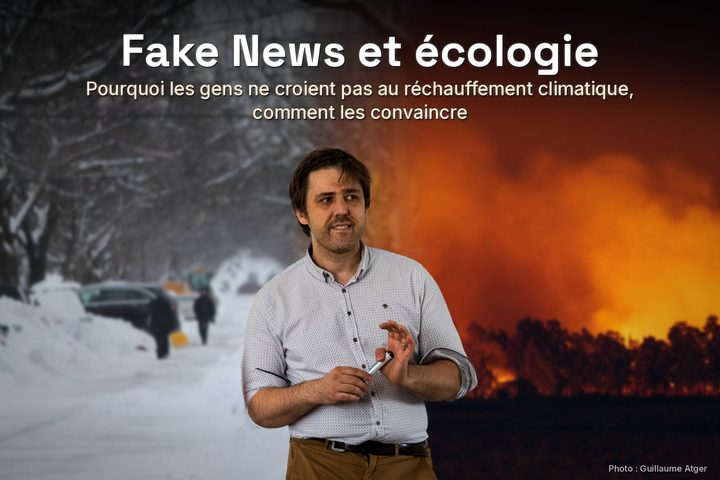
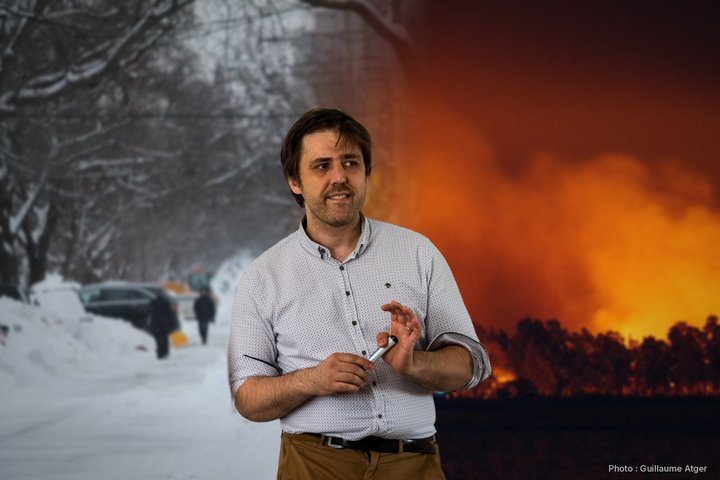
Mise a jour du site

Changed region(s): [[0.0, 0.0, 0.8861, 1.0], [0.4278, 0.9688, 0.4583, 1.0]]

diff --git a/gabarits/accueil.html b/gabarits/accueil.html
@@ -139,23 +139,39 @@
   <div class="wrap">
     <div class="eyebrow" data-rv>Ils m'ont fait venir</div>
     <h2 class="mots" data-mots>Retours des enseignants et des élèves.</h2>
+    {# Sélection : 2 médiathèques, 2 enseignants, 2 élèves (champ « categorie » des témoignages :
+       mediatheque, sinon enseignant). Tirage au hasard à chaque visite parmi tout ce qu'on a ;
+       sans JavaScript, les 2 premiers de chaque groupe. #}
     {% set eleves = (retours or [])|selectattr('type', 'equalto', 'eleve')|list %}
-    <div class="pile">
-      {% for t in refs.temoignages %}
-      <figure class="temoin" style="--k:{{ loop.index0 }}">
-        <span class="tag temoin__qui">Enseignant·e</span>
+    {% set media = refs.temoignages|selectattr('categorie', 'equalto', 'mediatheque')|list %}
+    {% set profs = refs.temoignages|rejectattr('categorie', 'equalto', 'mediatheque')|list %}
+    <div class="pile" data-pile>
+      {% for groupe, liste in [('mediatheque', media), ('prof', profs)] %}{% for t in liste %}
+      <figure class="temoin" data-cat="{{ groupe }}"{% if loop.index0 >= 2 %} hidden{% endif %}>
+        <span class="tag temoin__qui">{{ t.tag or ('Médiathèque' if groupe == 'mediatheque' else 'Enseignant·e') }}</span>
         <blockquote>{{ t.texte }}</blockquote>
         <figcaption><b>{{ t.auteur }}</b>, {{ t.fonction }}{% if t.mode %} · {{ t.mode|lower }}{% endif %}</figcaption>
       </figure>
-      {% endfor %}
-      {% for r in eleves[:3] %}
-      <figure class="temoin temoin--eleve" style="--k:{{ refs.temoignages|length + loop.index0 }}">
+      {% endfor %}{% endfor %}
+      {% for r in eleves %}
+      <figure class="temoin temoin--eleve" data-cat="eleve"{% if loop.index0 >= 2 %} hidden{% endif %}>
         <span class="tag tag--accent temoin__qui">Élève</span>{% if r.note is not none %}<span class="temoin__note">{{ r.note }}<small>/20</small></span>{% endif %}
         <blockquote>{{ r.texte }}</blockquote>
         <figcaption><b>{{ r.qui }}</b>, {{ r.etablissement }}{% if r.mode %} · {{ r.mode|lower }}{% endif %}</figcaption>
       </figure>
       {% endfor %}
     </div>
+    <script>
+    (function () {
+      var pile = document.querySelector('[data-pile]'); if (!pile) return;
+      ['mediatheque', 'prof', 'eleve'].forEach(function (cat) {
+        var c = Array.prototype.slice.call(pile.querySelectorAll('[data-cat="' + cat + '"]'));
+        for (var i = c.length - 1; i > 0; i--) { var j = Math.floor(Math.random() * (i + 1)), x = c[i]; c[i] = c[j]; c[j] = x; }
+        c.forEach(function (f, i) { if (i < 2) { f.hidden = false; pile.appendChild(f); } else f.remove(); });
+      });
+      Array.prototype.forEach.call(pile.children, function (f, k) { f.style.setProperty('--k', k); });
+    })();
+    </script>
 
     {% if retours %}
     <div class="retours" data-rv>
@@ -178,6 +194,23 @@
     {% endif %}
   </div>
 </section>
+
+<!-- 7 bis. Galerie : en descendant, les photos défilent de droite à gauche -->
+{% if galerie_accueil %}
+<section class="galerie-accueil" data-defile>
+  <div class="galerie-accueil__colle">
+    <div class="wrap galerie-accueil__tete">
+      <div><div class="eyebrow" data-rv>En intervention</div><h2>Classes, médiathèques, conférences.</h2></div>
+      <a class="galerie-accueil__tout" href="/interventions/#en-intervention">Toute la galerie →</a>
+    </div>
+    <div class="galerie-accueil__piste" data-piste>
+      {% for p in galerie_accueil %}
+      <figure><img src="/images/galerie/{{ p.fichier }}-vignette.jpg" alt="{{ p.legende }}" width="720" height="540" loading="lazy"><figcaption>{{ p.legende }}{% if p.credit %}<span> · Photo : {{ p.credit }}</span>{% endif %}</figcaption></figure>
+      {% endfor %}
+    </div>
+  </div>
+</section>
+{% endif %}
 
 <!-- 8. Comment ça se passe -->
 <section class="deroule pilier-intervenant fond-teinte">

diff --git a/static/css/accueil.css b/static/css/accueil.css
@@ -134,7 +134,7 @@ html:not(.anim) .accueil .etape { opacity: 1; min-height: 0; padding: 40px 0; }
 .accueil .temoins { padding: 40px 0 120px; }
 .accueil .pile { margin-top: 40px; }
 .accueil .temoin { position: sticky; top: calc(100px + var(--k) * 22px); background: var(--surface); border: 1px solid var(--border); border-radius: 10px; padding: clamp(28px, 5vw, 56px); margin: 0 0 40vh; box-shadow: 0 30px 60px -40px rgba(20,34,44,.5); transform-origin: 50% 0; }
-.accueil .temoin:last-child { margin-bottom: 0; }
+.accueil .temoin:last-child { margin-bottom: 0; } .accueil .temoin[hidden] { display: none; }
 html:not(.anim) .accueil .temoin { position: static; margin-bottom: 24px; }
 .accueil .temoin blockquote { margin: 0 0 22px; padding: 0; border: 0; font-family: var(--serif); font-size: clamp(1.3rem, 2.4vw, 1.9rem); line-height: 1.3; font-style: italic; color: var(--ink); }
 .accueil .temoin blockquote::before { content: "“"; display: block; font-size: 4.5rem; line-height: .6; color: var(--accent); font-style: normal; margin-bottom: 10px; }
@@ -333,3 +333,19 @@ html:not(.anim) .accueil .retours__fenetre { overflow-x: auto; }
 .accueil .facette { border-top: 4px solid var(--accent); }
 .accueil .facette__visuel--couv { background: var(--nuit); }
 .accueil .deroule.fond-teinte, .accueil .interventions-accueil.fond-teinte { border-color: transparent; }
+
+/* Galerie de l'accueil : section collante, la piste glisse vers la gauche pendant qu'on descend (accueil.js) */
+.accueil .galerie-accueil { position: relative; padding: 40px 0; }
+.accueil .galerie-accueil__tete { display: flex; align-items: flex-end; justify-content: space-between; gap: 20px; flex-wrap: wrap; margin-bottom: 28px; }
+.accueil .galerie-accueil__tete h2 { margin: 0; }
+.accueil .galerie-accueil__tout { font-weight: 600; white-space: nowrap; }
+.accueil .galerie-accueil__piste { display: flex; gap: 22px; padding: 0 max(20px, calc((100vw - var(--largeur)) / 2)); overflow-x: auto; scroll-snap-type: x mandatory; scrollbar-width: none; }
+.accueil .galerie-accueil__piste::-webkit-scrollbar { display: none; }
+.accueil .galerie-accueil figure { flex: 0 0 clamp(260px, 36vw, 540px); margin: 0; scroll-snap-align: start; }
+.accueil .galerie-accueil img { display: block; width: 100%; aspect-ratio: 4 / 3; object-fit: cover; border-radius: 10px; }
+.accueil .galerie-accueil figcaption { margin-top: 10px; font-size: .92rem; color: var(--ink-soft); }
+.accueil .galerie-accueil figcaption span { color: var(--ink-mute); }
+html.anim .accueil .galerie-accueil { padding: 0; }
+html.anim .accueil .galerie-accueil__colle { position: sticky; top: 0; height: 100vh; overflow: hidden; display: flex; flex-direction: column; justify-content: center; }
+html.anim .accueil .galerie-accueil__piste { overflow: visible; scroll-snap-type: none; will-change: transform; }
+@media (max-width: 760px) { .accueil .galerie-accueil figure { flex-basis: 78vw; } }

diff --git a/static/js/accueil.js b/static/js/accueil.js
@@ -79,6 +79,14 @@
   var photoOuv = $('[data-parallax]'), manif = $('[data-manifeste]');
   var frise = $('[data-frise]'), trait = $('.frise__trait'), cartes = $$('.temoin'), attente = false;
   var lignes = $$('[data-ligne]');
+  // Galerie : la section est aussi haute que le chemin à parcourir par la piste
+  var defile = $('[data-defile]'), piste = $('[data-piste]'), course = 0;
+  function mesure() {
+    if (!defile || !piste) return;
+    course = Math.max(0, piste.scrollWidth - window.innerWidth);
+    defile.style.height = (window.innerHeight + course * 0.6) + 'px';   // la piste va plus vite que la page
+  }
+  mesure(); window.addEventListener('load', mesure);
   function rendu() {
     attente = false;
     var y = window.scrollY, h = window.innerHeight;
@@ -101,6 +109,10 @@
       l.style.setProperty('--p', pl);
       $$('li', l).forEach(function (li) { li.classList.toggle('on', li.offsetTop + 10 <= pl * rl.height); });
     });
+    if (defile && piste) {
+      var rd = defile.getBoundingClientRect(), pd = borne(-rd.top / Math.max(1, rd.height - h));
+      piste.style.transform = 'translateX(' + (-pd * course) + 'px)';
+    }
     cartes.forEach(function (c, i) {
       var suivante = cartes[i + 1]; if (!suivante) return;
       var d = suivante.getBoundingClientRect().top - c.getBoundingClientRect().top;
@@ -111,6 +123,6 @@
   }
   function demande() { if (!attente) { attente = true; requestAnimationFrame(rendu); } }
   window.addEventListener('scroll', demande, { passive: true });
-  window.addEventListener('resize', demande);
+  window.addEventListener('resize', function () { mesure(); demande(); });
   rendu();
 })();

diff --git a/construire_site.py b/construire_site.py
@@ -456,6 +456,7 @@ def construire(verifier=False):
     env.globals["pages"] = pages
     env.globals["refs"] = refs
     env.globals["retours"] = retours
+    env.globals["galerie_accueil"] = charger_galerie()[:6]   # accueil : bande qui défile au scroll
     # vrai si le fichier existe dans le site (ex. image pas encore rapatriée → on ne l'affiche pas)
     env.tests["existe"] = lambda chemin: bool(chemin) and ((ICI / chemin.lstrip("/")).exists() or (ICI / "static" / chemin.lstrip("/")).exists())
     env.globals["existe"] = lambda chemin: bool(chemin) and ((ICI / chemin.lstrip("/")).exists() or (ICI / "static" / chemin.lstrip("/")).exists())

diff --git a/contenu/interventions/desinformation-au-dela-des-fake-news.md b/contenu/interventions/desinformation-au-dela-des-fake-news.md
@@ -11,7 +11,7 @@ video: HLEhkhCJCyw
 programmes: [EMI, EMC, SNT, HGGSP]
 description: "Et si l'on pouvait vous tromper sans jamais vous mentir ? Astroturfing, fabrique du doute, mute news : la suite de « Fake news et esprit critique », pour le lycée et le supérieur."
 visuel: /images/interventions/desinformation-au-dela-des-fake-news.jpg
-visuel_alt: "Antonin Atger sur la scène du TEDx, devant un globe numérique et une rangée de personnes rivées à leur téléphone ; titre : Désinformation, au-delà des fake news"
+visuel_alt: "Antonin Atger sur la scène du TEDx, devant un globe numérique et une rangée de personnes rivées à leur téléphone"
 ---
 
 Et si l'on pouvait vous tromper sans jamais vous mentir ? Les fake news ne sont que la partie visible de la désinformation. On peut manipuler l'information sans énoncer une seule contre-vérité : en cadrant, en hiérarchisant, en sortant des faits parfaitement exacts de leur contexte. Suite naturelle de « Fake news et esprit critique », cette conférence décortique les techniques les plus utilisées et les biais qui les rendent redoutablement efficaces. Elle existe aussi en version « + IA ».

diff --git a/contenu/interventions/fake-news-environnement.md b/contenu/interventions/fake-news-environnement.md
@@ -11,7 +11,7 @@ pdf: /images/uploads/2026/10/programme-fake-news-et-ecologie.pdf
 programmes: [Plan climat, Agents territoriaux, Formation des élus, Fête de la science, Semaine du développement durable, Éducation aux médias, Lycée agricole]
 description: "Un Français sur trois doute du réchauffement climatique ou de son origine humaine, et les preuves ne le font pas changer d'avis. Une conférence interactive, issue de la recherche en psychologie, pour comprendre ce doute et savoir en parler sans braquer."
 visuel: /images/interventions/fake-news-environnement.jpg
-visuel_alt: "Antonin Atger devant une rue sous la neige et un incendie de forêt ; titre : Fake News et écologie"
+visuel_alt: "Antonin Atger devant une rue sous la neige et un incendie de forêt"
 ---
 
 Un Français sur trois doute aujourd'hui du réchauffement climatique ou de son origine humaine (Ipsos et EDF, 2024), et ce chiffre ne baisse plus. Pourtant, ni les preuves ni même les catastrophes ne font changer d'avis : après les gigantesques incendies australiens de 2019-2020, les sceptiques n'avaient pas bougé d'un pouce. Pourquoi ? Et que faire à la place ?

diff --git a/contenu/interventions/ateliers-d-ecriture.md b/contenu/interventions/ateliers-d-ecriture.md
@@ -10,7 +10,7 @@ materiel: De quoi écrire. Rien d'autre.
 programmes: [Français, PEAC, Résidence d'auteur]
 description: "Un Français sur trois rêve d'écrire un livre. Presque personne ne se lance. Une méthode simple et bienveillante pour que chacun crée son histoire, et y prenne plaisir."
 visuel: /images/interventions/ateliers-d-ecriture.jpg
-visuel_alt: "Antonin Atger penché sur la copie d'un élève, en atelier d'écriture, devant une machine à écrire et un livre illuminé ; titre : Atelier d'écriture heureux"
+visuel_alt: "Antonin Atger penché sur la copie d'un élève, en atelier d'écriture, devant une machine à écrire et un livre illuminé"
 ---
 
 Un Français sur trois rêve d'écrire un livre. Presque personne ne se lance. La raison ? On nous a appris que l'écriture est une souffrance réservée aux « talents ». C'est faux. Cet atelier propose une méthode simple et bienveillante pour que chacun, quel que soit son niveau, puisse créer son histoire, et surtout prendre plaisir à écrire. Mes ateliers en établissement scolaire ont donné lieu à quatre ouvrages publiés par des élèves.

diff --git a/contenu/pages/parcours.md b/contenu/pages/parcours.md
@@ -65,7 +65,7 @@ Un format résidence en cinq séances pour déculpabiliser l'écriture et la ren
 <h2 id="autres">Et aussi</h2>
 
 - **Une semaine dans un établissement** : toutes les classes d'un niveau, une conférence parents le soir, une formation de l'équipe le mercredi. C'est le format d'une semaine de rencontres, comme au collège Balzac en 2024 ou au Lycée français international de Hong Kong en 2023.
-- **Un cycle en médiathèque** : trois conférences dans l'année (fake news, arnaques, parler à un complotiste) avec les partenaires locaux, collèges et centres sociaux.
+- **Un cycle en médiathèque** : trois conférences dans l'année (fake news, arnaques, fake news et écologie) avec les partenaires locaux, collèges et centres sociaux.
 - **Un projet européen** : hackathon GenderED Coalition en Italie (prix Media Education Relevance, avril 2026), summer schools de Cres et Osijek en Croatie.
 
 Vous avez une idée qui n'entre dans aucune case ? [Écrivez-moi](/contact/?sujet=Un%20parcours%20sur%20mesure) : les meilleurs projets ci-dessus ont commencé comme ça.

diff --git a/contenu/interventions/fake-news-et-esprit-critique.md b/contenu/interventions/fake-news-et-esprit-critique.md
@@ -14,7 +14,7 @@ photo_legende: "Collège Joliot-Curie, Bron. Photo : Guillaume Atger."
 programmes: [EMI, EMC, Parcours citoyen, SNT]
 description: "Pourquoi les fake news nous séduisent-elles autant ? Une conférence interactive, du CM1 au lycée, pour comprendre son cerveau et apprendre à vérifier une information."
 visuel: /images/interventions/fake-news-et-esprit-critique.jpg
-visuel_alt: "Antonin Atger sur la scène du TEDx, devant un smartphone et un livre ancien ; titre : Fake News et esprit critique"
+visuel_alt: "Antonin Atger sur la scène du TEDx, devant un smartphone et un livre ancien"
 ---
 
 Pourquoi les fake news nous séduisent-elles autant ? En m'appuyant sur mes recherches en sciences cognitives, j'explique comment notre cerveau, pourtant remarquable, est aussi faillible. À travers des illusions d'optique, des énigmes et des exemples concrets, je montre pourquoi les fausses informations circulent plus vite et plus loin que les vraies, et comment développer des réflexes pour les identifier.

diff --git a/contenu/interventions/dejouer-les-pieges-de-la-rhetorique.md b/contenu/interventions/dejouer-les-pieges-de-la-rhetorique.md
@@ -10,7 +10,7 @@ distance: true
 programmes: [EMC, EMI, Français, Grand oral]
 description: "Si les mots sont une arme, la rhétorique est l'art de s'en servir. Un atelier très interactif pour comprendre la persuasion, repérer les sophismes et débattre honnêtement."
 visuel: /images/interventions/dejouer-les-pieges-de-la-rhetorique.jpg
-visuel_alt: "Antonin Atger de profil, en pleine parole sur la scène du TEDx, devant une foule et un pupitre ; titre : Déjouer les pièges de la rhétorique"
+visuel_alt: "Antonin Atger de profil, en pleine parole sur la scène du TEDx, devant une foule et un pupitre"
 ---
 
 Si les mots sont une arme, la rhétorique est l'art de s'en servir. Indispensable pour convaincre, elle peut aussi servir à manipuler, souvent sans que l'on s'en rende compte. Cette séance très interactive permet de comprendre et de pratiquer les techniques de persuasion, d'identifier les raisonnements fallacieux et d'apprendre à débattre sans se braquer.

diff --git a/contenu/interventions/le-piege-des-influenceurs.md b/contenu/interventions/le-piege-des-influenceurs.md
@@ -8,6 +8,8 @@ ordre: 4
 adage: true
 programmes: [EMI, EMC, Parcours citoyen]
 description: "On suit un influenceur comme on écoute un ami, sauf qu'il ne nous connaît pas. Les mécanismes cognitifs, émotionnels et sociaux de l'influence, sans diaboliser personne."
+visuel: /images/interventions/le-piege-des-influenceurs.jpg
+visuel_alt: "Antonin Atger devant un mur peint d'un « j'aime » et des icônes de réseaux sociaux"
 ---
 
 On suit un influenceur comme on écoute un ami, sauf qu'il ne nous connaît pas. Omniprésents dans l'univers médiatique des jeunes, les créateurs de contenu exercent une influence bien réelle. Mais pourquoi leur parole est-elle si persuasive ? Cette intervention en décrypte les mécanismes cognitifs, émotionnels et sociaux, sans diaboliser personne, en donnant les clés pour regarder leurs contenus avec recul.
